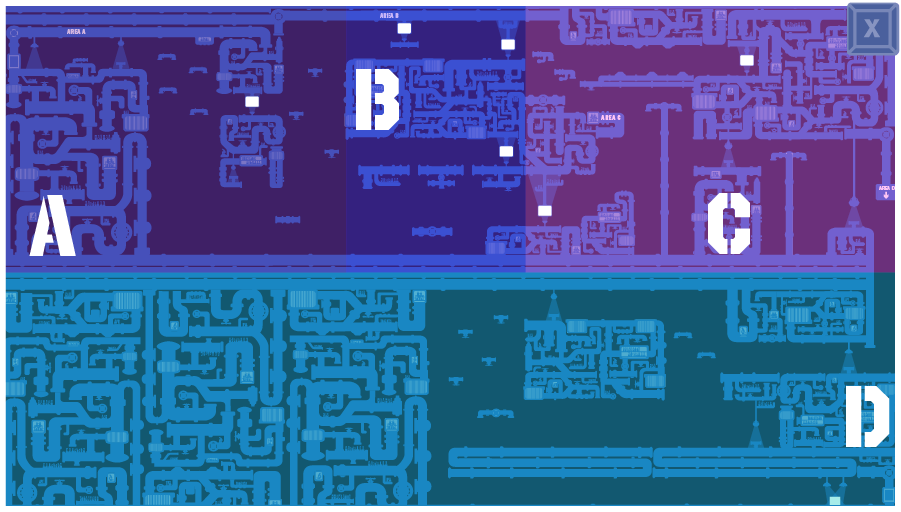
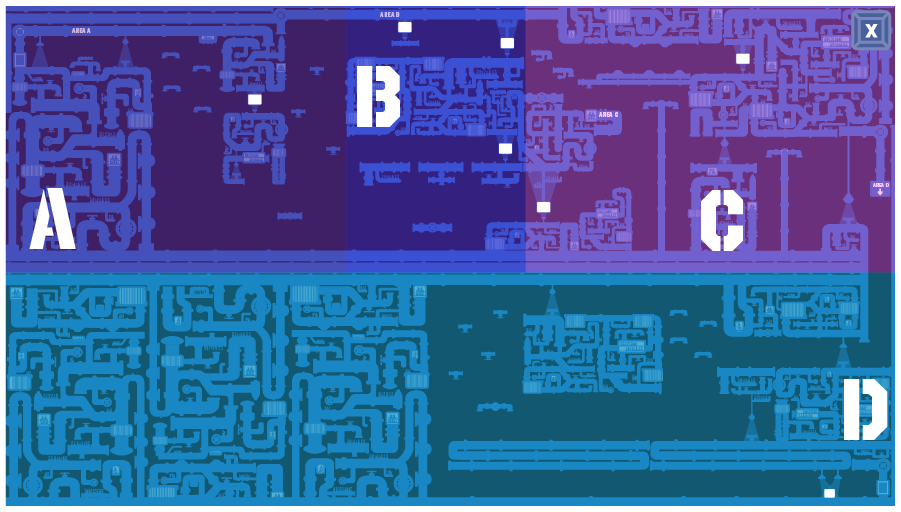
sistemazioni varie (mappa + piattaforme statiche liv2 + inserimento topolino e boh altro)

diff --git a/src/characters/animals.js b/src/characters/animals.js
@@ -22,6 +22,9 @@ function preload_animals(s) {
     img_scimmia    = PP.assets.sprite.load_spritesheet(s, "assets/images/personaggi/ss_scimmia.png", 248, 160);
     img_maiale     = PP.assets.sprite.load_spritesheet(s, "assets/images/personaggi/ss_maiale.png", 171, 87);
     img_scientist  = PP.assets.sprite.load_spritesheet(s, "assets/images/personaggi/ss_scientist.png", 94, 170);
+
+
+    img_topino = PP.assets.sprite.load_spritesheet(s, "assets/images/personaggi/ss_topino.png", 123, 96);
 }
 
 function goto_gameover (s) {
@@ -114,6 +117,25 @@ function create_animals (s) {
     PP.physics.set_velocity_x(scientist2, 270);
     PP.physics.set_immovable(scientist2, true);
     PP.physics.set_allow_gravity(scientist2, false);
+
+
+
+
+
+
+    // Topino
+    topino = PP.assets.sprite.add(s, img_topino, 9300, 5190, 0.5, 1); 
+    PP.physics.add(s, topino, PP.physics.type.DYNAMIC);
+    
+    PP.physics.add_overlap_f(s, player, topino, topino_free);
+    
+    PP.assets.sprite.animation_add(topino, "locked", 0, 0, 15, 0);
+    PP.assets.sprite.animation_add(topino, "free", 0, 8, 15, 0);
+    PP.assets.sprite.animation_play(topino, "locked");
+   
+    PP.physics.set_immovable(topino, true);
+    PP.physics.set_allow_gravity(topino, false);
+    
 }
 
 function update_animals (s) {
@@ -177,6 +199,11 @@ else if (scientist2.geometry.x <= 7660) {
     scientist2.geometry.flip_x = false;
 }
 
+}
+
+
+function topino_free (s) {
+    PP.assets.sprite.animation_play(topino, "free");
 }
 
 function destroy_animals (s) {

diff --git a/src/structure/structure.js b/src/structure/structure.js
@@ -333,11 +333,19 @@ function create_structure(s) {
     PP.physics.add_collider(s, player, wall);
 
     //piattaforme statiche gruppo 1 
-    wall = PP.shapes.rectangle_add(s, 7845, 3535, 190, 60, "0x000000", 0); 
+    wall = PP.shapes.rectangle_add(s, 7865, 3577, 190, 60, "0x000000", 0); 
     PP.physics.add(s, wall, PP.physics.type.STATIC); 
     PP.physics.add_collider(s, player, wall);
 
-    wall = PP.shapes.rectangle_add(s, 7590, 3310, 190, 60, "0x000000", 0); 
+    wall = PP.shapes.rectangle_add(s, 7590, 3413, 190, 60, "0x000000", 0); 
+    PP.physics.add(s, wall, PP.physics.type.STATIC); 
+    PP.physics.add_collider(s, player, wall);
+
+    wall = PP.shapes.rectangle_add(s, 7920, 3225, 190, 60, "0x000000", 0); 
+    PP.physics.add(s, wall, PP.physics.type.STATIC); 
+    PP.physics.add_collider(s, player, wall);
+
+    wall = PP.shapes.rectangle_add(s, 7590, 3100, 190, 60, "0x000000", 0); 
     PP.physics.add(s, wall, PP.physics.type.STATIC); 
     PP.physics.add_collider(s, player, wall);
 

diff --git a/src/characters/player.js b/src/characters/player.js
@@ -33,7 +33,7 @@ function preload_player(s) {
 
 function create_player(s) {
     player = PP.assets.sprite.add(s, img_player, 400, 350, 0.5, 1);  //posizioni iniziali giuste 
-    //player = PP.assets.sprite.add(s, img_player, 9000, 1505-65, 0.5, 1); 
+    //player = PP.assets.sprite.add(s, img_player, 9400, 3610, 0.5, 1); 
     //player = PP.assets.sprite.add(s, img_player, 2500, 350, 0.5, 1);  
 
     PP.physics.add(s, player, PP.physics.type.DYNAMIC);

diff --git a/src/scenes/tavola03.js b/src/scenes/tavola03.js
@@ -16,7 +16,7 @@ function preload_tavola03 (s) {
 
 function create_tavola03 (s) {
     tavola3       = PP.assets.image.add(s, img_tavola3, 0, 0, 0, 0);
-    avanti3       = PP.assets.image.add(s, img_avanti3, 1200, 660, 0, 0);
+    avanti3       = PP.assets.image.add(s, img_avanti3, 1220, 660, 0, 0);
     indietro3     = PP.assets.image.add(s, img_indietro3, 20, 660, 0, 0);
 
     PP.interactive.mouse.add (avanti3, "pointerdown", change_scene_livello_1);

diff --git a/src/scenes/tavola01.js b/src/scenes/tavola01.js
@@ -16,7 +16,7 @@ function preload_tavola01 (s) {
 
 function create_tavola01 (s) {
     tavola1       = PP.assets.image.add(s, img_tavola1, 0, 0, 0, 0);
-    avanti1       = PP.assets.image.add(s, img_avanti1, 1200, 660, 0, 0);
+    avanti1       = PP.assets.image.add(s, img_avanti1, 1220, 660, 0, 0);
     indietro1     = PP.assets.image.add(s, img_indietro1, 20, 660, 0, 0);
 
     PP.interactive.mouse.add (avanti1, "pointerdown", change_scene_tavola02);

diff --git a/src/scenes/tavola02.js b/src/scenes/tavola02.js
@@ -16,7 +16,7 @@ function preload_tavola02 (s) {
 
 function create_tavola02 (s) {
     tavola2       = PP.assets.image.add(s, img_tavola2, 0, 0, 0, 0);
-    avanti2       = PP.assets.image.add(s, img_avanti2, 1200, 660, 0, 0);
+    avanti2       = PP.assets.image.add(s, img_avanti2, 1220, 660, 0, 0);
     indietro2     = PP.assets.image.add(s, img_indietro2, 20, 660, 0, 0);
 
     PP.interactive.mouse.add (avanti2, "pointerdown", change_scene_tavola03);

diff --git a/src/scenes/livello_1.js b/src/scenes/livello_1.js
@@ -102,6 +102,7 @@ function update(s) {
     update_HUD(s);
     manage_player_weapon(s);
     update_collectibles(s);
+    
 }
 
 function destroy(s) {
